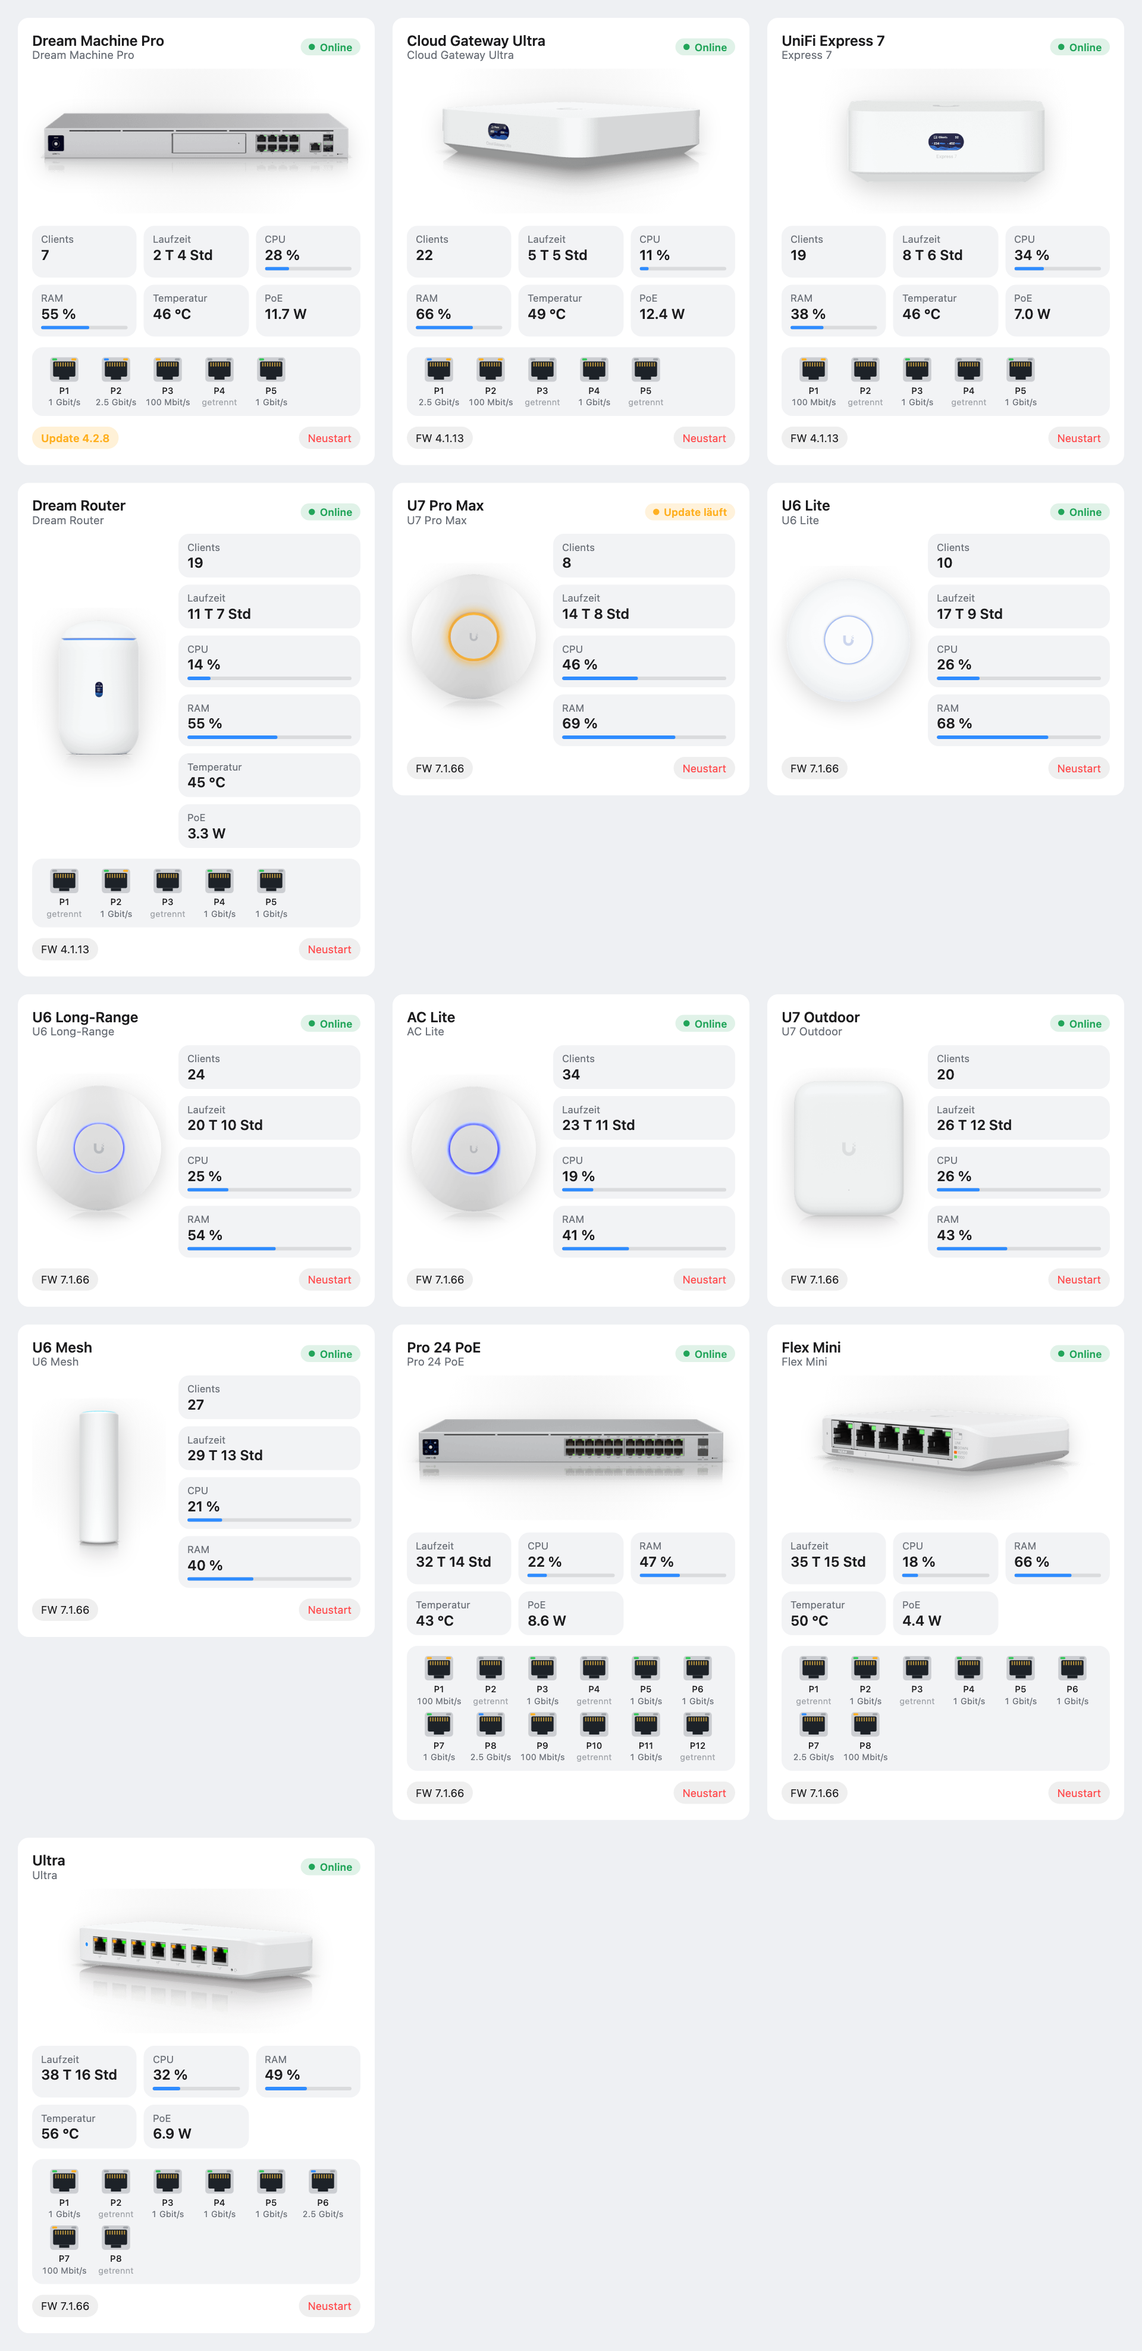
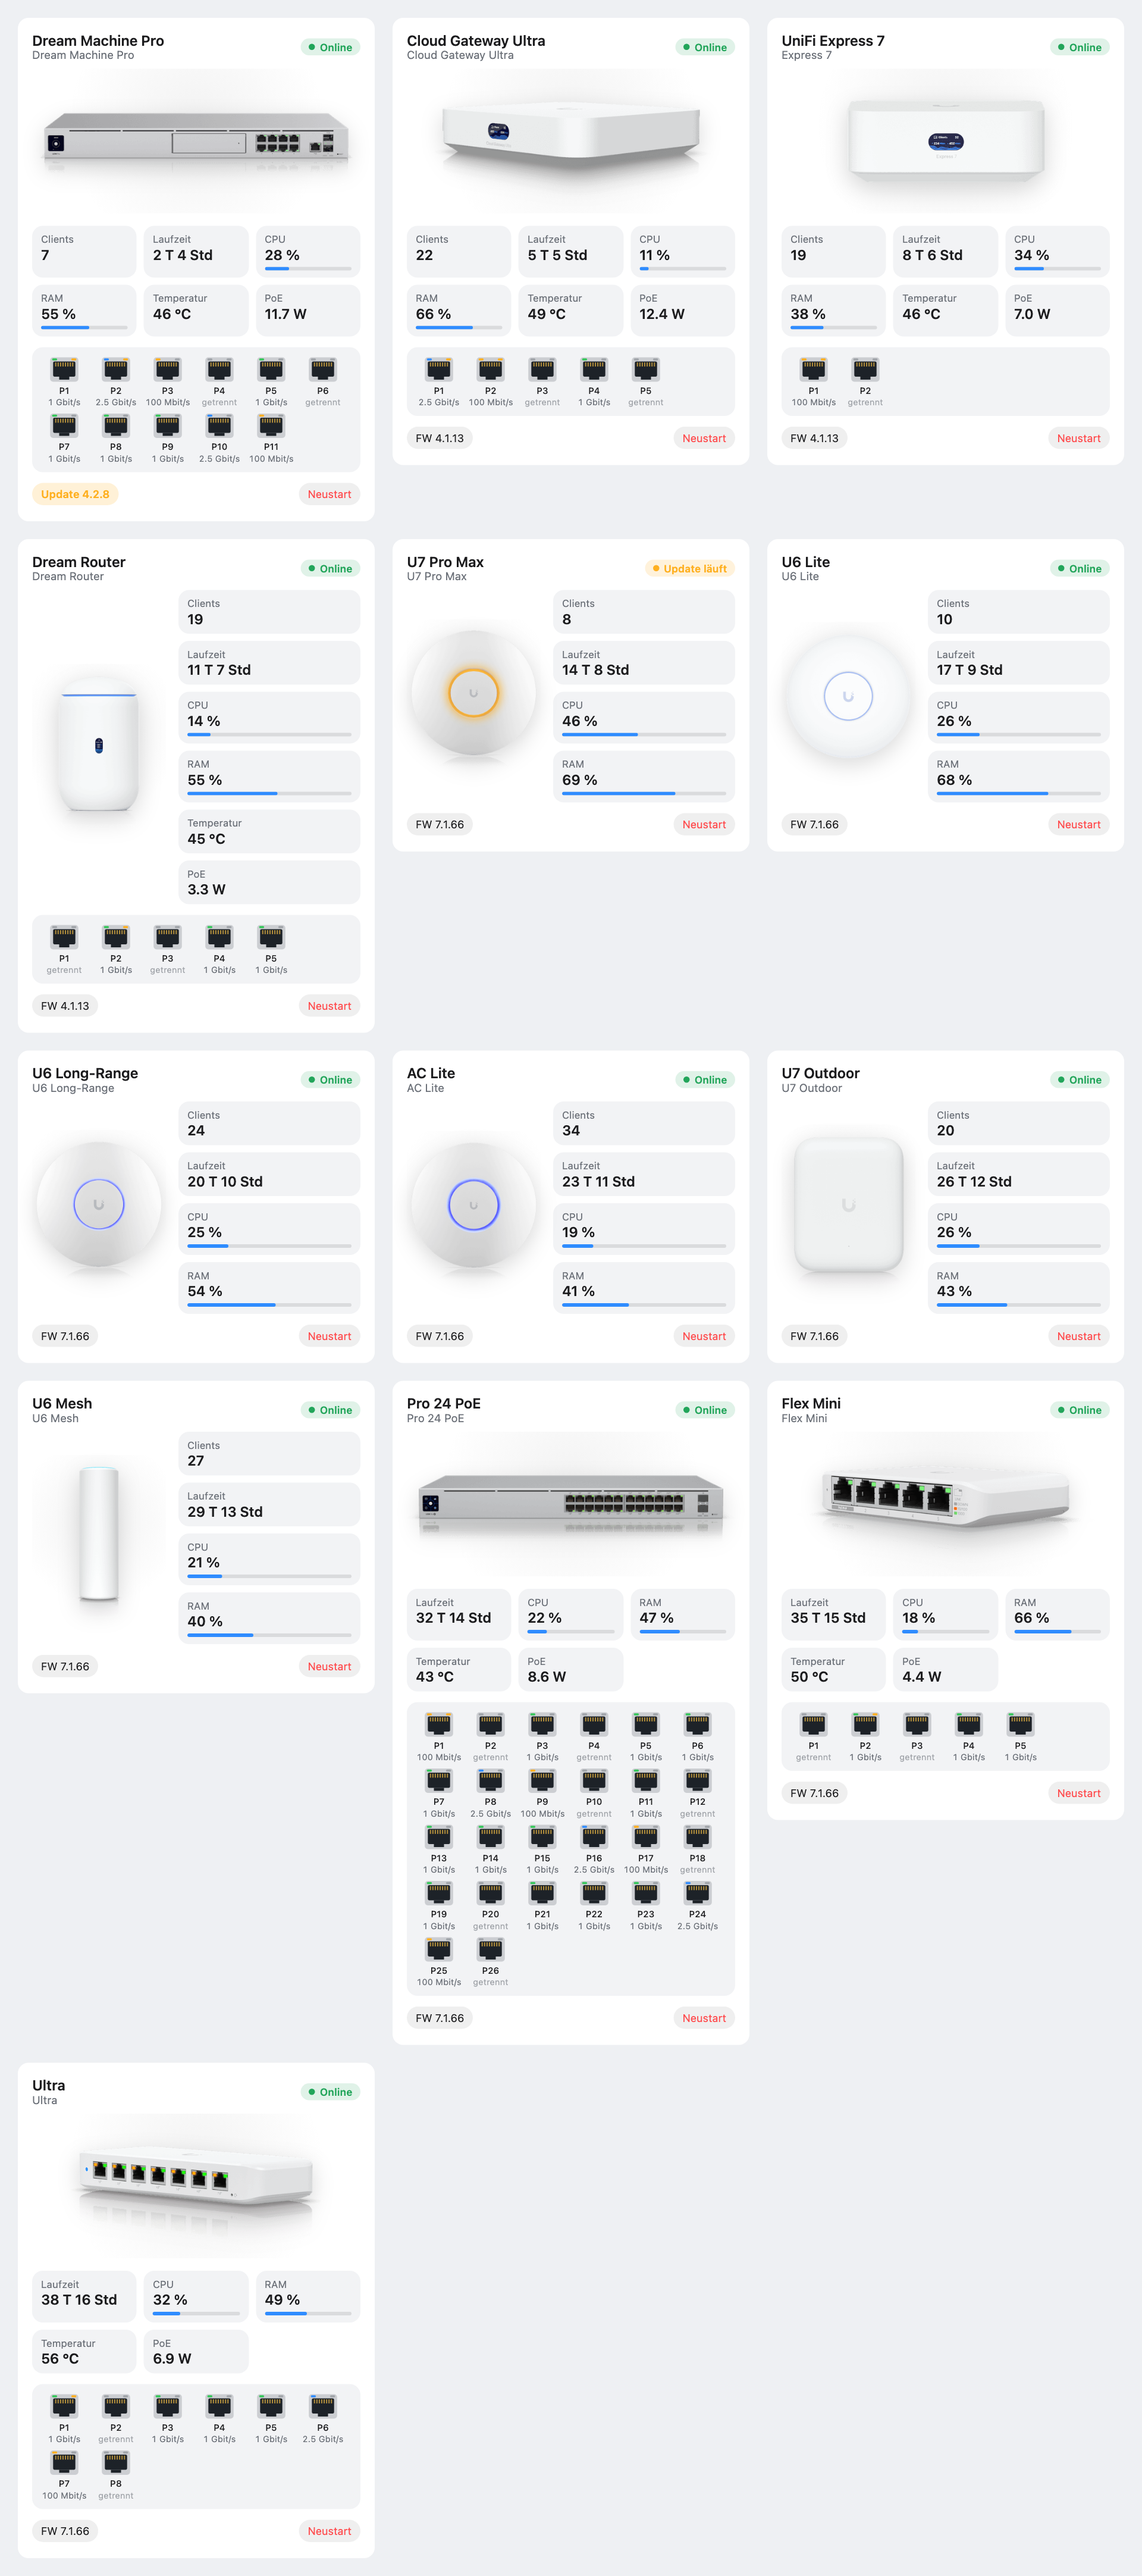
Demo: echte Portzahlen aus Ubiquitis Daten
The demo now uses each model's real port count (e.g. Dream Machine Pro 11, Pro 24 PoE 26) instead of fixed placeholder values; gallery image regenerated. The card itself was unaffected: it always shows the ports Home Assistant reports.

diff --git a/demo.html b/demo.html
@@ -19,6 +19,9 @@ if (location.hash === "#dark") document.body.classList.add("dark");
 document.write('<script src="unifi-network-card.js?t=' + Date.now() + '"><\/script>');
 </script>
 <script>
+// Echte Portzahlen aus Ubiquitis Daten (tools/device-db.base.json); synchron laden, damit die Demo sofort steht
+const PORTS = (() => { try { const x = new XMLHttpRequest(); x.open("GET", "tools/device-db.base.json", false); x.send();
+  return Object.fromEntries(JSON.parse(x.responseText).map((e) => [e.sku.toLowerCase(), e.ports])); } catch { return {}; } })();
 const SETS = {
   home: [["UDR7", "Dream Router 7"], ["U7-Lite", "AP Flur"], ["U7-Pro", "AP Wohnzimmer"], ["USW-Lite-8-PoE", "Switch Büro"]],
   gateways: [["UDM-Pro", "Dream Machine Pro"], ["UCG-Ultra", "Cloud Gateway Ultra"], ["UX7", "UniFi Express 7"], ["UDR", "Dream Router"]],
@@ -44,7 +47,8 @@ set.forEach(([sku, name], i) => {
   add(`button.${slug}_restart`, "unknown", { device_class: "restart" });
   if (e.kind !== "switch") add(`sensor.${slug}_clients`, Math.round(4 + rnd() * 30));
   if (e.kind !== "ap") add(`sensor.${slug}_temperature`, Math.round(42 + rnd() * 18), { device_class: "temperature", unit_of_measurement: "°C" });
-  const ports = e.kind === "switch" ? (/24/.test(sku) ? 12 : 8) : e.kind === "gateway" ? 5 : 0;
+  // Access Points haben in der UniFi-Integration keine Port-Sensoren
+  const ports = e.kind === "ap" ? 0 : PORTS[sku.toLowerCase()] || (e.kind === "switch" ? 8 : 5);
   for (let p = 1; p <= ports; p++) {
     const speed = [1000, 1000, 2500, 100, 10, 1000, 10, 1000][(p + i) % 8];
     add(`sensor.${slug}_port_${p}_link_speed`, speed, { device_class: "data_rate", unit_of_measurement: "Mbit/s", friendly_name: `${name} Port ${p} Link Speed` });
